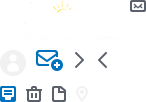
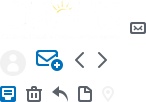
APQD-34

diff --git a/src/main/scss/_sprites.scss b/src/main/scss/_sprites.scss
@@ -34,60 +34,60 @@ $icon-aside-inbox-total-height: 102px;
 $icon-aside-inbox-image: '../images/global.png';
 $icon-aside-inbox: (0px, 86px, 0px, -86px, 16px, 16px, 146px, 102px, '../images/global.png', 'icon-aside-inbox', );
 $icon-drafts-name: 'icon-drafts';
-$icon-drafts-x: 52px;
+$icon-drafts-x: 78px;
 $icon-drafts-y: 86px;
-$icon-drafts-offset-x: -52px;
+$icon-drafts-offset-x: -78px;
 $icon-drafts-offset-y: -86px;
 $icon-drafts-width: 14px;
 $icon-drafts-height: 16px;
 $icon-drafts-total-width: 146px;
 $icon-drafts-total-height: 102px;
 $icon-drafts-image: '../images/global.png';
-$icon-drafts: (52px, 86px, -52px, -86px, 14px, 16px, 146px, 102px, '../images/global.png', 'icon-drafts', );
+$icon-drafts: (78px, 86px, -78px, -86px, 14px, 16px, 146px, 102px, '../images/global.png', 'icon-drafts', );
 $icon-facilities-name: 'icon-facilities';
-$icon-facilities-x: 76px;
+$icon-facilities-x: 102px;
 $icon-facilities-y: 86px;
-$icon-facilities-offset-x: -76px;
+$icon-facilities-offset-x: -102px;
 $icon-facilities-offset-y: -86px;
 $icon-facilities-width: 12px;
 $icon-facilities-height: 16px;
 $icon-facilities-total-width: 146px;
 $icon-facilities-total-height: 102px;
 $icon-facilities-image: '../images/global.png';
-$icon-facilities: (76px, 86px, -76px, -86px, 12px, 16px, 146px, 102px, '../images/global.png', 'icon-facilities', );
+$icon-facilities: (102px, 86px, -102px, -86px, 12px, 16px, 146px, 102px, '../images/global.png', 'icon-facilities', );
 $icon-inbox-name: 'icon-inbox';
-$icon-inbox-x: 98px;
-$icon-inbox-y: 86px;
-$icon-inbox-offset-x: -98px;
-$icon-inbox-offset-y: -86px;
+$icon-inbox-x: 130px;
+$icon-inbox-y: 0px;
+$icon-inbox-offset-x: -130px;
+$icon-inbox-offset-y: 0px;
 $icon-inbox-width: 16px;
 $icon-inbox-height: 12px;
 $icon-inbox-total-width: 146px;
 $icon-inbox-total-height: 102px;
 $icon-inbox-image: '../images/global.png';
-$icon-inbox: (98px, 86px, -98px, -86px, 16px, 12px, 146px, 102px, '../images/global.png', 'icon-inbox', );
+$icon-inbox: (130px, 0px, -130px, 0px, 16px, 12px, 146px, 102px, '../images/global.png', 'icon-inbox', );
 $icon-pagination-arrow-left-name: 'icon-pagination-arrow-left';
-$icon-pagination-arrow-left-x: 96px;
+$icon-pagination-arrow-left-x: 73px;
 $icon-pagination-arrow-left-y: 50px;
-$icon-pagination-arrow-left-offset-x: -96px;
+$icon-pagination-arrow-left-offset-x: -73px;
 $icon-pagination-arrow-left-offset-y: -50px;
 $icon-pagination-arrow-left-width: 13px;
 $icon-pagination-arrow-left-height: 20px;
 $icon-pagination-arrow-left-total-width: 146px;
 $icon-pagination-arrow-left-total-height: 102px;
 $icon-pagination-arrow-left-image: '../images/global.png';
-$icon-pagination-arrow-left: (96px, 50px, -96px, -50px, 13px, 20px, 146px, 102px, '../images/global.png', 'icon-pagination-arrow-left', );
+$icon-pagination-arrow-left: (73px, 50px, -73px, -50px, 13px, 20px, 146px, 102px, '../images/global.png', 'icon-pagination-arrow-left', );
 $icon-pagination-arrow-right-name: 'icon-pagination-arrow-right';
-$icon-pagination-arrow-right-x: 73px;
+$icon-pagination-arrow-right-x: 96px;
 $icon-pagination-arrow-right-y: 50px;
-$icon-pagination-arrow-right-offset-x: -73px;
+$icon-pagination-arrow-right-offset-x: -96px;
 $icon-pagination-arrow-right-offset-y: -50px;
 $icon-pagination-arrow-right-width: 13px;
 $icon-pagination-arrow-right-height: 20px;
 $icon-pagination-arrow-right-total-width: 146px;
 $icon-pagination-arrow-right-total-height: 102px;
 $icon-pagination-arrow-right-image: '../images/global.png';
-$icon-pagination-arrow-right: (73px, 50px, -73px, -50px, 13px, 20px, 146px, 102px, '../images/global.png', 'icon-pagination-arrow-right', );
+$icon-pagination-arrow-right: (96px, 50px, -96px, -50px, 13px, 20px, 146px, 102px, '../images/global.png', 'icon-pagination-arrow-right', );
 $icon-recycle-bin-name: 'icon-recycle-bin';
 $icon-recycle-bin-x: 26px;
 $icon-recycle-bin-y: 86px;
@@ -99,17 +99,28 @@ $icon-recycle-bin-total-width: 146px;
 $icon-recycle-bin-total-height: 102px;
 $icon-recycle-bin-image: '../images/global.png';
 $icon-recycle-bin: (26px, 86px, -26px, -86px, 16px, 16px, 146px, 102px, '../images/global.png', 'icon-recycle-bin', );
+$icon-reply-msg-name: 'icon-reply-msg';
+$icon-reply-msg-x: 52px;
+$icon-reply-msg-y: 86px;
+$icon-reply-msg-offset-x: -52px;
+$icon-reply-msg-offset-y: -86px;
+$icon-reply-msg-width: 16px;
+$icon-reply-msg-height: 16px;
+$icon-reply-msg-total-width: 146px;
+$icon-reply-msg-total-height: 102px;
+$icon-reply-msg-image: '../images/global.png';
+$icon-reply-msg: (52px, 86px, -52px, -86px, 16px, 16px, 146px, 102px, '../images/global.png', 'icon-reply-msg', );
 $icon-sent-name: 'icon-sent';
 $icon-sent-x: 130px;
-$icon-sent-y: 0px;
+$icon-sent-y: 22px;
 $icon-sent-offset-x: -130px;
-$icon-sent-offset-y: 0px;
+$icon-sent-offset-y: -22px;
 $icon-sent-width: 16px;
 $icon-sent-height: 12px;
 $icon-sent-total-width: 146px;
 $icon-sent-total-height: 102px;
 $icon-sent-image: '../images/global.png';
-$icon-sent: (130px, 0px, -130px, 0px, 16px, 12px, 146px, 102px, '../images/global.png', 'icon-sent', );
+$icon-sent: (130px, 22px, -130px, -22px, 16px, 12px, 146px, 102px, '../images/global.png', 'icon-sent', );
 $icon-user-account-name: 'icon-user-account';
 $icon-user-account-x: 0px;
 $icon-user-account-y: 50px;
@@ -135,7 +146,7 @@ $logo: (0px, 0px, 0px, 0px, 120px, 40px, 146px, 102px, '../images/global.png', '
 $spritesheet-width: 146px;
 $spritesheet-height: 102px;
 $spritesheet-image: '../images/global.png';
-$spritesheet-sprites: ($icon-add-contact, $icon-aside-inbox, $icon-drafts, $icon-facilities, $icon-inbox, $icon-pagination-arrow-left, $icon-pagination-arrow-right, $icon-recycle-bin, $icon-sent, $icon-user-account, $logo, );
+$spritesheet-sprites: ($icon-add-contact, $icon-aside-inbox, $icon-drafts, $icon-facilities, $icon-inbox, $icon-pagination-arrow-left, $icon-pagination-arrow-right, $icon-recycle-bin, $icon-reply-msg, $icon-sent, $icon-user-account, $logo, );
 $spritesheet: (146px, 102px, '../images/global.png', $spritesheet-sprites, );
 
 /*

diff --git a/src/main/webapp/scripts/app/mailbox/inbox/inbox.html b/src/main/webapp/scripts/app/mailbox/inbox/inbox.html
@@ -175,4 +175,108 @@
 
     </ul>
 
+
+
+  <section class="ch-mail-thread">
+        <ul class="ch-mail-thread-list">
+            <li class="ch-mail-thread-list__item">
+                <div class="ch-mail-expanded">
+                    <div class="ch-mail-expanded__header">
+                        <div class="ch-mail-header">
+                            <div class="ch-mail-header__item">
+                                <div class="ch-mail-origin">
+                                    <span class="ch-mail-origin__prefix">
+                                        From:
+                                    </span>
+                                    <span class="ch-mail-origin__name">
+                                        Sandra Derick
+                                    </span>
+                                </div>
+                            </div>
+                            <div class="ch-mail-header__item ch-mail-header__item_ch-mail-info">
+                                <div class="ch-mail-info">
+                                    <div class="ch-mail-info__attachments-badge">
+
+                                    </div>
+                                    <div class="ch-mail-info__date">
+                                        <span class="ch-text">20:02</span>
+                                    </div>
+                                </div>
+                            </div>
+                            <div class="ch-mail-header__item ch-mail-header__item_ch-mail-options-group">
+                                <div class="ch-mail-options-group">
+                                    <div class="ch-button-group-action">
+                                        <a href="#" role="button" class="ch-button-group-action__btn ch-button-group-action__btn_reply">
+                                            <span></span>
+                                        </a>
+                                        <a href="#" role="button" class="ch-button-group-action__btn ch-button-group-action__btn_mail-options">
+                                            <span></span>
+                                        </a>
+                                    </div>
+                                </div>
+                            </div>
+                        </div>
+                    </div>
+                    <div class="ch-mail-expanded__body">
+                        <div class="ch-mail-body">
+                            <p>
+                                Hello Sheyla,
+                                This factsheet provides the most recent national statistical estimates for children and youth in foster care from fiscal year (FY) 2014 and also provides earlier data from FY 2005 to allow for some estimate of trends over time. Data were obtained from the Federal Adoption and Foster Care Analysis and Reporting System (AFCARS). AFCARS collects information on all children in foster care for whom State child welfare agencies have responsibility for placement, care, or supervision and on children who are adopted with public child welfare agency involvement.
+                            </p>
+                        </div>
+                    </div>
+                    <div class="ch-mail-expanded__footer">
+                        <div class="ch-attachments">
+
+                            <div class="ch-attachments__heading">
+                                <h3><span class="attachments-count"> 2 attachments</span>
+                                    <span class="attachments-download">Download All</span></h3>
+                            </div>
+
+                            <ol class="ch-attachments__list">
+
+                                <li class="ch-attachments__list__item">
+                                    <div class="ch-attachments__list__item__icon">
+                                        <span class="icon icon-attachment"></span>
+                                    </div>
+
+                                    <div class="ch-attachments__list__item__file">
+                                        <span class="attachments-filename">Foster Care Services.jpg</span>
+                                        <span class="attachments-filesize">120 MB</span>
+                                    </div>
+
+                                    <div class="ch-attachments__list__item__actions">
+                                        <span class="icon icon-view"></span>
+                                        <span class="icon icon-download"></span>
+                                    </div>
+                                </li>
+
+                                <li class="ch-attachments__list__item">
+                                    <div class="ch-attachments__list__item__icon">
+                                        <span class="icon icon-attachment"></span>
+                                    </div>
+
+                                    <div class="ch-attachments__list__item__file">
+                                        <span class="attachments-filename">Services Info.doc</span>
+                                        <span class="attachments-filesize">25 MB</span>
+                                    </div>
+
+                                    <div class="ch-attachments__list__item__actions">
+                                        <span class="icon icon-view"></span>
+                                        <span class="icon icon-download"></span>
+                                    </div>
+                                </li>
+                            </ol>
+                        </div>
+
+                    </div>
+                </div>
+            </li>
+            <li class="ch-mail-thread-list__item">
+                <div class="ch-mail-collapsed">
+                    <div class="ch-mail-collapsed__container"></div>
+                </div>
+            </li>
+        </ul>
+  </section>
   </div>

diff --git a/src/main/scss/layout/_layout.scss b/src/main/scss/layout/_layout.scss
@@ -52,10 +52,21 @@
 }
 
 .ch-main-nav-item__text {
+    display: inline-block;
     font-size: 1.5rem;
     font-weight: 600;
     color: #fff;
     text-transform: uppercase;
+    position: relative;
+}
+
+.ch-main-nav-item__text_badge-notify:after {
+    content: '\0020';
+    position: absolute;
+    border: 3px solid #fdb81e;
+    border-radius: 50%;
+    top: -.2rem;
+    right: -.9rem;
 }
 
 .ch-main-nav-item__icon {
@@ -305,4 +316,112 @@
     font-weight: 600;
     color: #5b616b;
     text-transform: uppercase;
+}
+
+.ch-mail-expanded {
+    padding: 1.8rem 3rem;
+    background: #fff;
+}
+
+.ch-mail-origin__prefix {
+    color: #6a6f78;
+    font-size: 1.4rem;
+    font-weight: 400;
+    margin-right: .4rem;
+}
+
+.ch-mail-origin__name {
+    color: #000;
+    font-size: 1.4rem;
+    font-weight: 600;
+}
+
+.ch-button-group-action {
+    vertical-align: middle;
+}
+
+.ch-button-group-action__btn {
+    float: left;
+    text-align: center;
+    min-height: 3.4rem;
+    cursor: pointer;
+    -webkit-appearance: none;
+    vertical-align: middle;
+    background-color: #fff;
+    border: .1rem solid #000;
+    position: relative;
+}
+
+.ch-button-group-action__btn + .ch-button-group-action__btn {
+    margin-left: -1px;
+}
+
+
+.ch-button-group-action__btn_reply {
+    width: 4.8rem;
+    height: 3.6rem;
+}
+
+.ch-button-group-action__btn_mail-options {
+    width: 3rem;
+    height: 3.6rem;
+}
+
+.ch-button-group-action__btn_reply:before {
+    content: '\0020';
+    display: inline-block;
+    width: 16px;
+    height: 16px;
+    background: url(../images/out-sprite-icons/icon-reply-msg.png) 0 0 no-repeat;
+    vertical-align: -10px;
+}
+
+.ch-button-group-action__btn_mail-options:before {
+    content: '\0020';
+    width: 0;
+    height: 0;
+    position: absolute;
+    top: 50%;
+    left: 50%;
+    margin: -2px 0 0 -4px;
+    border-left: 4px solid transparent;
+    border-right: 4px solid transparent;
+    border-top: 4px solid #5b616b;
+}
+
+.ch-mail-header {
+    display: table;
+    width: 100%;
+}
+
+.ch-mail-header__item {
+    display: table-cell;
+    vertical-align: middle;
+}
+
+.ch-mail-header__item_ch-mail-info,
+.ch-mail-header__item_ch-mail-options-group {
+    text-align: right;
+}
+
+.ch-mail-header__item_ch-mail-info {
+    width: 11rem;
+}
+
+.ch-mail-header__item_ch-mail-options-group {
+    width: 9rem;
+}
+
+.ch-mail-options-group {
+    display: inline-block;
+}
+
+.ch-mail-expanded__header {
+    padding: 0 0 1.6rem 0;
+    margin-bottom: 2rem;
+    border-bottom: .1rem solid #cbcdcf;
+}
+
+.ch-mail-expanded__body {
+    margin-bottom: 2rem;
 }

diff --git a/src/main/webapp/scripts/app/mailbox/mailbox-aside-nav.html b/src/main/webapp/scripts/app/mailbox/mailbox-aside-nav.html
@@ -50,7 +50,7 @@
                         <div class="ch-contact">
                             <a href="" class="ch-contact__link">
                                 <div class="ch-contact__name">Sandra Derick</div>
-                                <span class="ch-contact__role">Case Worker</span>
+                                <div class="ch-contact__role">Case Worker</div>
                                 <span class="icon icon-add-contact ch-contact__icon"></span>
                             </a>
 
@@ -60,7 +60,7 @@
                         <div class="ch-contact">
                             <a href="" class="ch-contact__link">
                                 <div class="ch-contact__name">Josh Bryceland</div>
-                                <span class="ch-contact__role">Case Worker</span>
+                                <div class="ch-contact__role">Case Worker</div>
                                 <span class="icon icon-add-contact ch-contact__icon"></span>
                             </a>
                         </div>

diff --git a/src/main/webapp/scripts/components/main-nav/main.nav.html b/src/main/webapp/scripts/components/main-nav/main.nav.html
@@ -3,7 +3,8 @@
         <div class="ch-main-nav-item">
             <a class="ch-main-nav-item__link" ui-sref="ch-inbox" ui-sref-active="ch-main-nav-item__link_active">
                 <span class="icon icon-inbox ch-main-nav-item__icon"></span>
-                <span class="ch-main-nav-item__text">Inbox</span>
+                <span class="ch-main-nav-item__text ch-main-nav-item__text_badge-notify">Inbox</span>
+
             </a>
         </div>
     </li>
